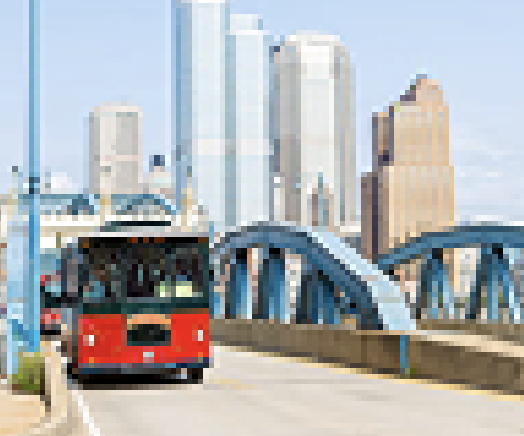
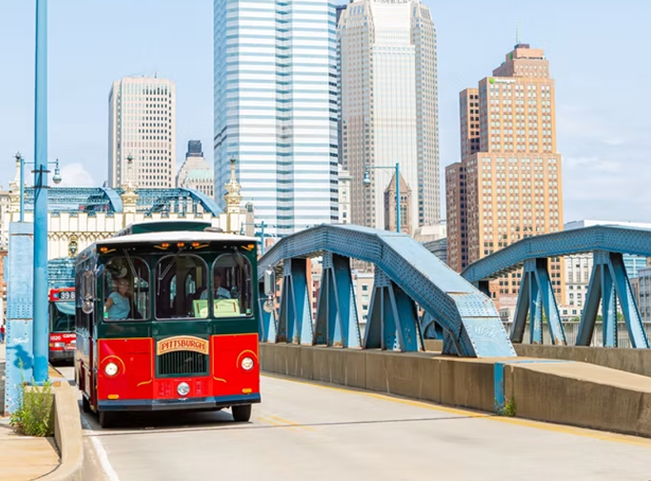
fixed quality of image; need to implement jquery

diff --git a/index.html b/index.html
@@ -34,7 +34,42 @@
         </div>
     </div>  
     <div class = "mainContainer">
-        <div class = "item1">
+        <div class="responsive">
+            <div class="gallery">
+            <a href="./views/plan.html" target="_blank">
+                <img src="./static/giftShop.png" alt="HTML tutorial" id = "interactiveImage">
+            </a>
+              <div class="desc">Add a description of the image here</div>
+            </div>
+          </div>
+          
+          <div class="responsive">
+            <div class="gallery">
+            <a href="https://www.mollystrolleyspgh.com" target="_blank">
+                <img src="./static/tours.png" alt="HTML tutorial" id = "interactiveImage">
+            </a>
+              <div class="desc">Add a description of the image here</div>
+            </div>
+          </div>
+          
+          <div class="responsive">
+            <div class="gallery">
+            <a href="https://riversofsteel.com/" target="_blank">
+                <img src="./static/steel.png" alt="HTML tutorial" id = "interactiveImage">
+            </a>
+              <div class="desc">Add a description of the image here</div>
+            </div>
+          </div>
+          
+          <div class="responsive">
+            <div class="gallery">
+              <a target="_blank" href="./views/plan.html">
+                <img src="./static/giftShop2.png" alt="Mountains">
+              </a>
+              <div class="desc">Add a description of the image here</div>
+            </div>
+          </div>
+        <!-- <div class = "item1">
             <a href="./views/plan.html" target="_blank">
                 <img src="./static/fieldTrip.png" alt="HTML tutorial" id = "interactiveImage">
             </a>
@@ -51,7 +86,7 @@
                 <img src="./static/steel.png" alt="HTML tutorial" id = "interactiveImage">
             </a>
             <h4>Visit the Steel Factories</h4>
-        </div>
+        </div> -->
 
     </div>
     <div class="ourContainers">

diff --git a/static/style.css b/static/style.css
@@ -171,18 +171,47 @@ table {
 .citem3 {
     max-width: 100%; 
 }
-
+/* 
 #interactiveImage{
     width: 400px;
     height: auto;
-}
+} */
 
 .mainContainer{
     display: flex;
     justify-content: space-evenly;
     padding: 20px;
     gap: 20px;
-}
+} 
+
+div.gallery {
+    border: 1px solid #ccc;
+  }
+  
+  div.gallery:hover {
+    border: 1px solid #777;
+  }
+  
+  div.gallery img {
+    width: 100%;
+    height: auto;
+  }
+  
+  div.desc {
+    padding: 15px;
+    text-align: center;
+  }
+  
+  * {
+    box-sizing: border-box;
+  }
+  
+  .responsive {
+    padding: 0 6px;
+    float: left;
+    width: 24.99999%;
+  }
+
 
 /* CONTACT PAGE */
 .contactInfoContainer{
